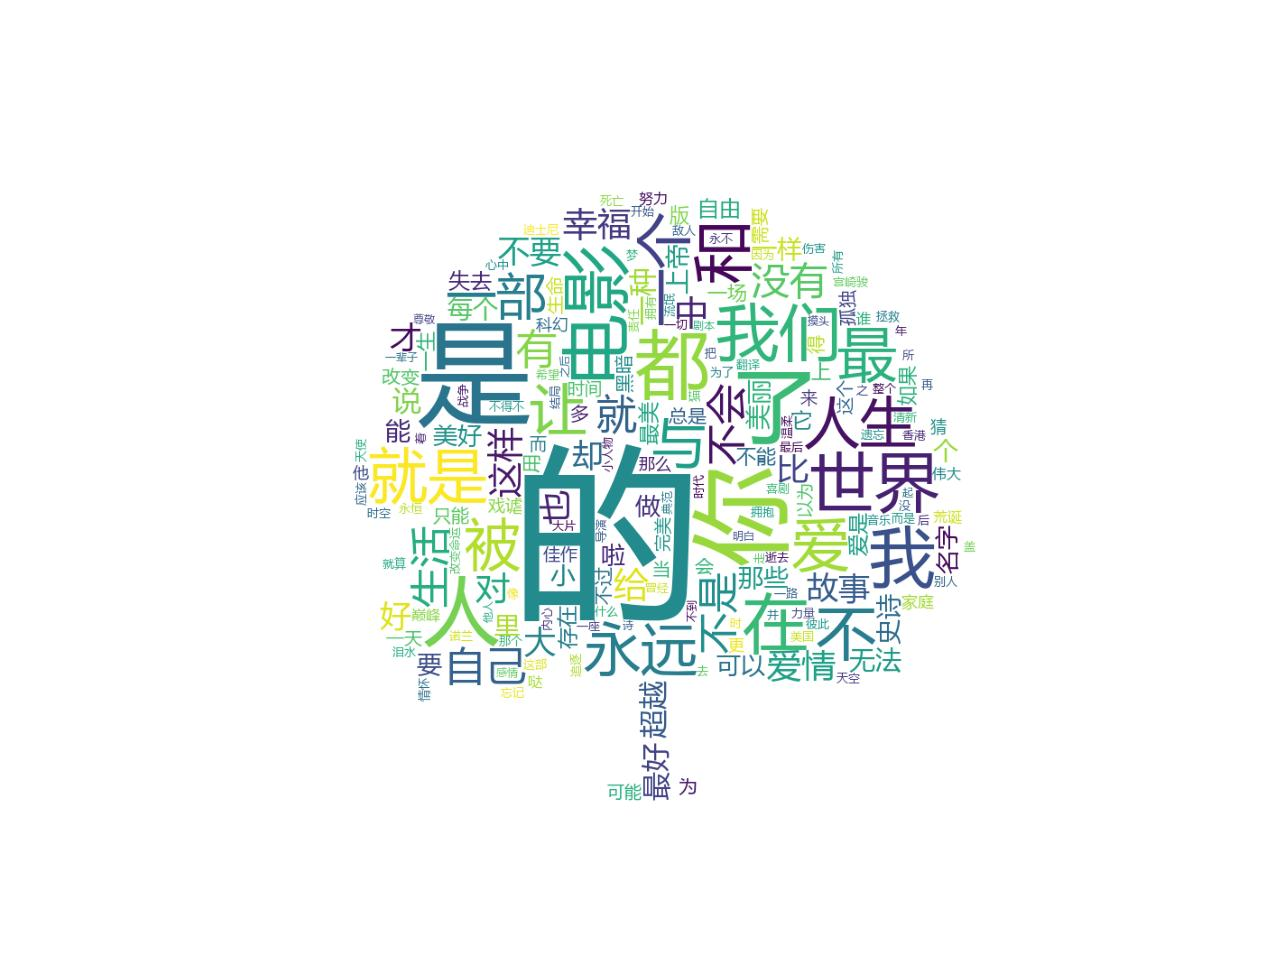
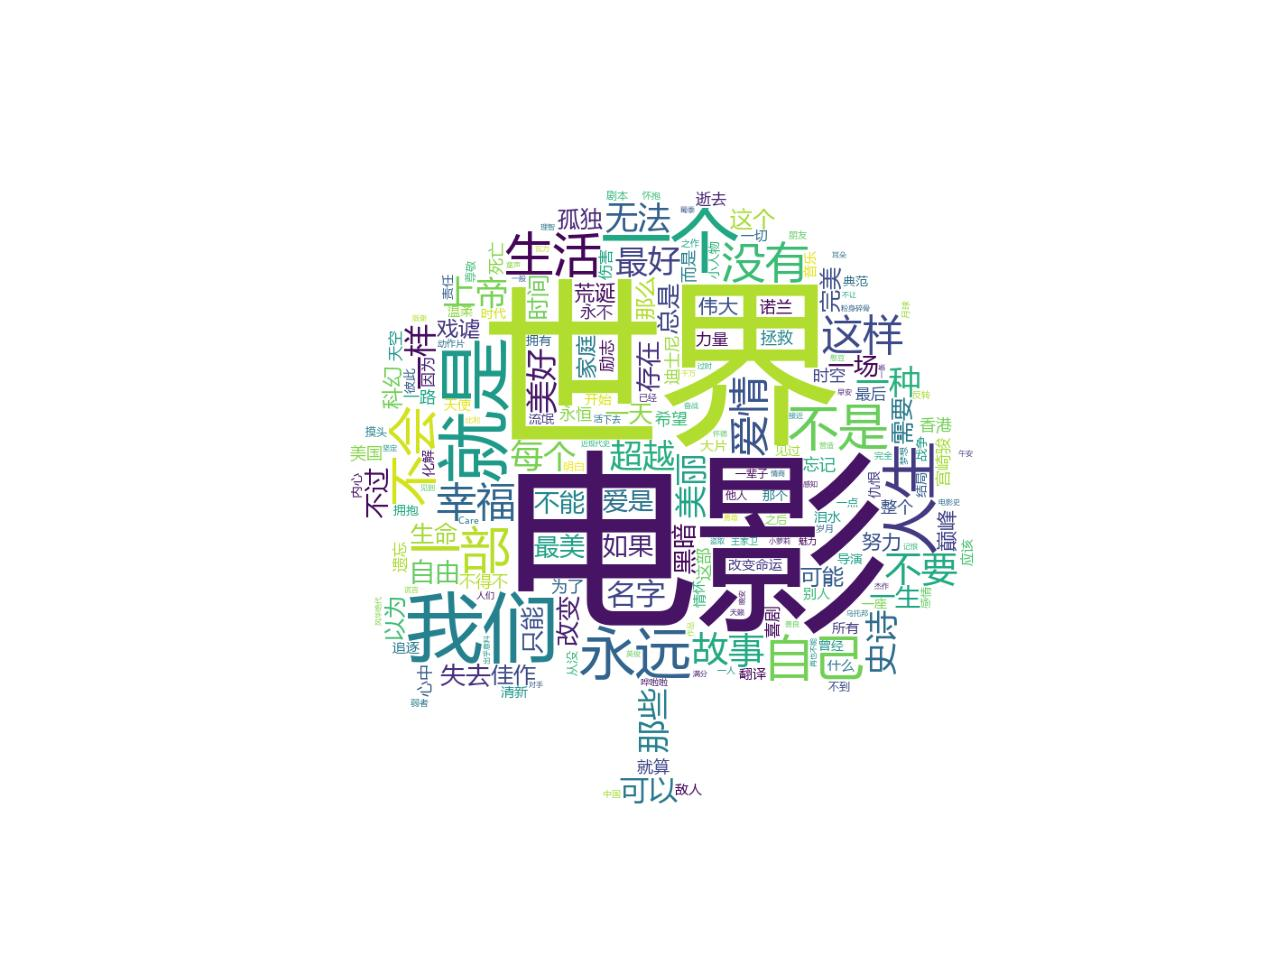
更新词云树

Changed region(s): [[0.25, 0.1875, 0.7812, 0.8438]]

diff --git a/wordCloud.py b/wordCloud.py
@@ -24,7 +24,8 @@ con.close()
 
 # 2.分词
 cut = jieba.cut(text)
-string = ' '.join(cut)
+words = [word for word in cut if len(word) > 1]  # 仅保留长度大于1的词语
+string = ' '.join(words)
 print(len(string))
 
 # 3.创建遮罩
@@ -45,4 +46,3 @@ plt.axis('off')  # 是否显示坐标轴
 # plt.show()  # 显示生成的词云图片
 # 5.输出词云图片到文件
 plt.savefig(r'.\static\assets\img\wordCloud.jpg', dpi=200)
-
